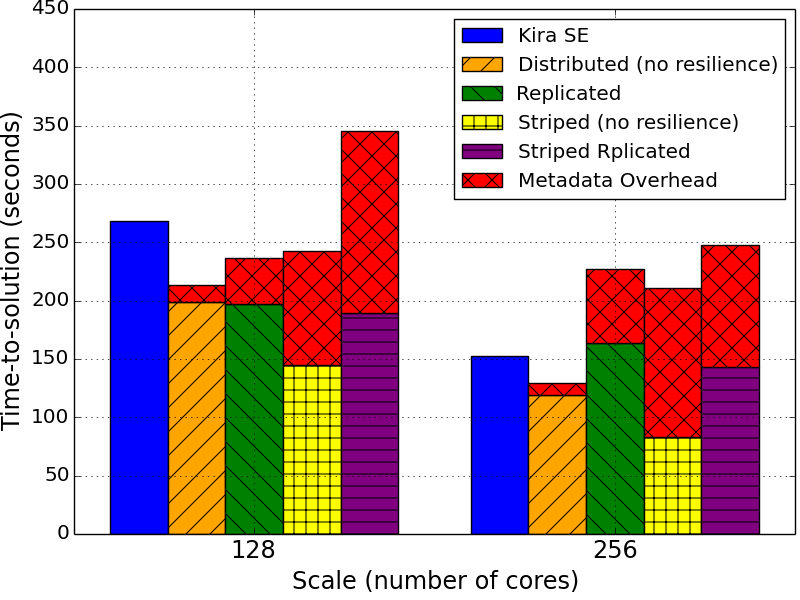
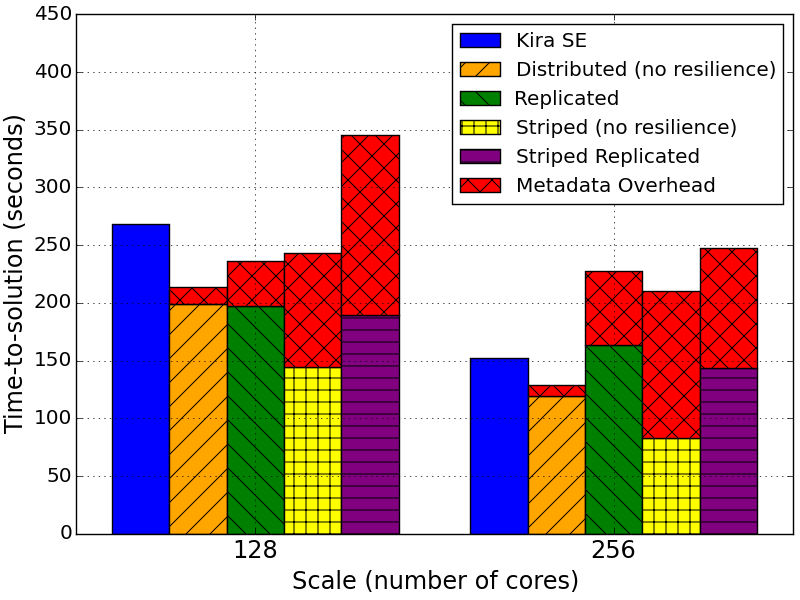
address most of Mike's hand-written comments except VI.c.1, VI.c.2 and a extra plot show metadata distribution of HDFS and GlusterFS

diff --git a/Kira.tex b/Kira.tex
@@ -447,16 +447,26 @@ the SparkContext and RDD APIs.
 
 \subsection{I/O}
 \label{sec:Design-I/O}
-Kira uses the jFITS~\cite{jfits} library to read and write data in the Flexible Image Transport System (FITS)~\cite{wells81} format,
-which is a standard data interchange format for astronomy. For our intended use-case, Kira must be
-able to process data stored in HDFS, S3, and shared file systems like GPFS, Lustre and GlusterFS.
-We use the \texttt{SparkContext.binaryFiles} method for parallel data access to all storage systems.
-This API loads all files within a directory as a sequence of tuples of the file object and a binary
-stream containing the contents of the file. We then use jFITS library to convert these streams in
-parallel into tuples that users can transform and compute upon. 
-%In future work we plan to evaluate
-%various other data formats (e.g. Avro~\cite{avro}, Parquet~\cite{parquet}, and HDF5~\cite{folk99})
-%with Kira.
+The Flexible Image Transport System (FITS)~\cite{wells81} format is a widely adopted file format for astronomy
+images. Each FITS file combines a ASCII text part for metadata and a binary part for the actual image.
+Many sky surveys release data products in the FITS format. This requires Kira has to be compatible with 
+the FITS format. 
+One the other hand, one notable difference between HDFS and the traditional POSIX compatible file system is 
+the exposure of file locality information. HDFS client exposes a set of APIs for users to customized the input file
+format while the underlying system guarantees the locality when loading the files. 
+Spark in turn calls to the HDFS client APIs to load files from HDFS with locality optimization. 
+
+The mixed text and binary contents of FITS format makes it challenging for Kira to be compatible with.
+One way for Kira to be compatible with the FITS format while preserving the file locality is to customize Spark's
+HDFS client by passing the FITS class definition. This approach requires changes to the Spark code base and 
+introduces additional overhead to manage an extra Spark branch that is compatible with the FITS format.
+
+To better isolate Kira code from Spark, we use an alternate solution that is based on 
+the \texttt{SparkContext.binaryFiles()} API, with which we do not have to change the Spark source code.
+This API loads all files within a directory as a sequence of tuples. Each tuple contains the file object and a byte
+stream containing the contents of the file. We then use jFITS~\cite{jfits} library to convert these byte streams 
+into FITS objects that users can transform and compute upon. 
+
 
 \subsection{Parallelism}
 
@@ -486,7 +496,7 @@ $t$ to start. The policy is tunable through three options:
 These parameters allow users to specify how much time a task will wait before being sent to another
 process, node, or rack. For Kira SE, we have found that data balancing can 
 impact task distribution, leading to node starvation and a reduction in overall performance.
-Loading the 65GB (11,150 files) to a 16-node HDFS deployment ideally should result in 699 files on each node.
+Loading a 65GB (11,150 files) dataset from SDSS Data Release 2 to a 16-node HDFS deployment ideally should result in 699 files on each node.
 In reality, the number of files on each node is varies between 617 and 715.
 Enforcing locality with longer {\em spark.locality.wait} time (3000 ms) leads to task distribution imbalance, which makes
 Kira SE 4.5\% slower than running with {\em spark.locality.wait} set to 0 ms.
@@ -494,7 +504,7 @@ In practice, we set all {\em spark.locality.wait} parameters to zero, so that ta
 This setting effectively avoids the starving situation and improves the overall time-to-solution.
 
 The root cause of the delay scheduling ineffectiveness is the small input file size of the Kira SE tasks. 
-Each input file is $\sim$6MB, while a typical Spark/Hadoop application accesses files with a trunk size of 64/128 MB.
+Each input file is $\sim$6MB, while a typical Spark/Hadoop application accesses files with a block size of 64/128 MB~\cite{shvachko10}.
 Delay scheduling works effectively when it is expensive to move the data through network. The small input
 file size means that this assumption is not true, leading to reduced cost for scheduling without locality.
 We notice that the small file size is why Kira SE is CPU bound, making Kira SE
@@ -589,10 +599,10 @@ is then used for further refinement in the next loop iteration.
 \label{sec:Performance}
 
 We evaluate Kira SE's performance against the C implementation with the SEP library
-(referred as the C version in the following text). Kira SE performs an identical amount of
+(referred as the C version in the following text). Because it uses SEP, Kira SE performs an identical amount of
 computation and I/O as the C version.
 
-To run the C version in parallel, we launching a number of processes in the background and then wait
+To run the C version in parallel, we launch a number of processes in the background and then wait
 for processes to finish before starting another batch. When running on multiple nodes,
 the input dataset is stored in a shared file system spread across all available nodes
 (GlusterFS on the cloud and Lustre on the supercomputer). To enable distributed processing,
@@ -601,7 +611,7 @@ independent partition of files.
 
 To understand Spark's overhead, we compare the C implementation against Kira SE on a single
 machine. Then we fix the problem size and scale Kira SE and the C implementation across a
-various number of machines on EC2 to understand the relative scalability of each approach.
+varying number of machines on EC2 to understand the relative scalability of each approach.
 The 1TB experiments demonstrate the difference in performance between Kira SE and the C version
 for large dataset processing. Finally, we show some interesting results when running the C
 version on the Edison supercomputer that is deployed at National Energy Research Scientific Computing Center (NERSC).
@@ -616,8 +626,8 @@ Software configurations are described in the following experiments.
 \label{sec:Performance-scaleup}
 
 The purpose of the scale-up experiments is to understand Spark's overhead by running
-Kira SE on a single node. Slowdown will be caused mainly by Java Virtual Machine (JVM) overhead, and result
-serialization at ``narrow'' shuffle dependencies. We also wanted to identify the factors
+Kira SE on a single node. Slowdown is caused mainly by Java Virtual Machine (JVM) overhead. 
+We also wanted to identify the factors
 that bound Kira SE's performance. For both Kira SE and the C implementation, we store data
 locally in an ext4 file system.
 
@@ -646,7 +656,7 @@ We also profile the C implementation with both warm and cold file system caches.
 cold cache, the job completed in 371 seconds while the job completed in 83 seconds when
 running with a warm cache. This indicates that 78\% of job execution time is consumed by
 I/O (reading and writing data between local disk and memory). Since the C implementation of
-SExtractor is disk bound, we believe that it is a data intensive application. 
+SExtractor is disk bound, we believe that it is representative of a data intensive application. 
 
 \subsection{Scale-Out Performance}
 \label{sec:Performance-scaleout}
@@ -661,8 +671,8 @@ We use a 65GB dataset from the SDSS DR2 survey that comprises 11,150 image files
 Kira SE was configured to use HDFS as a storage system, while the C version used GlusterFS. 
 Both HDFS and GlusterFS are configured with a replication factor of two.
 
-Figure~\ref{fig:scaleout} demonstrates the performance of Kira SE and the C version across
-multiple compute nodes. Kira SE achieves only 37\% of the throughput of the C version
+Figure~\ref{fig:scaleout} shows the performance of Kira SE and the C version across
+multiple compute nodes in log scale. Kira SE is 2.7x slower as the C version
 on eight cores. However, the gap between the two implementations decreases as we scale up. 
 On 256 cores and 512 cores, Kira SE is respectively 5.6\% and 22.4\% faster than the C version.
 Across all scales, Kira SE achieves near linear speedup.
@@ -676,9 +686,10 @@ Across all scales, Kira SE achieves near linear speedup.
   	\end{center}
 \end{figure}
 
-The fundamental driver of Kira SE's linear scalability is it's consistent locality
-hit ratio. Spark and HDFS optimize for data locality during scheduling and achieve a
-locality hit ration above 98\%, as shown in Figure~\ref{fig:locality}. In contrast, the
+The fundamental driver of Kira SE's linear scalability is it's consistent local disk
+hit ratio, which is the ratio between the number of tasks that access the input file 
+on local disk and total number of tasks. Spark and HDFS optimize for data locality during scheduling and achieve a
+hit ration above 98\%, as shown in Figure~\ref{fig:locality}. In contrast, the
 C implementation's locality hit ratio decreases linearly with the log of the cluster
 size increases.
 
@@ -802,9 +813,9 @@ Section~\ref{sec:Background-EngReq}. This high throughput enables real-time imag
 
 Many astronomers have access to supercomputers and believe that
 supercomputers outperform commodity clusters for data-intensive applications.
-To examine this believe, we compare Kira SE on the Amazon cloud versus the performance of
+To examine this belief, we compare Kira SE on the Amazon cloud versus the performance of
 the C version running on the NERSC Edison supercomputer, a Cray XC 30 System. We use
-mounted Lustre file system which provides a peak throughput of 48GB/s. Each compute
+the Lustre file system which provides a peak throughput of 48GB/s. Each compute
 node of Edison is equipped with a 24-core Ivy Bridge processor, with a 2.4GHz clock rate.
 This is comparable to the CPU speed of the Amazon EC2 m2.4xlarge instance (eight vCPUs of
 Intel Xeon E5-2665, each running at 2.4GHz). The experiments on Edison run on 21
@@ -830,8 +841,8 @@ However, when the machine is busy, the C version runs $1.75\times$ slower than K
 Given the performance loss introduced by virtual machines on EC2~\cite{li13},
 the actual Kira SE performance on bare-metal computers should be close to the idle performance
 of the supercomputer. When Edison was saturated, we were not able to launch the CCM mode.
-We believe that cause this problem is caused by sharing the single Aries network between both inter-process
-communication and I/O. The network resource is not sufficiently isolated to preserve every
+We believe that this problem is caused by sharing the single Aries network between both inter-process
+communication and I/O. The network resource is not fairly shared to preserve every
 user's performance. A similar situation was carefully studied on the Jaguar supercomputer
 (a Cray XK6 machine, \cite{xie12}).
 
@@ -849,11 +860,11 @@ scheme that can be applied to a broad range of applications, but at the cost of 
 flexibility.
 
 Researchers have used the Hadoop MapReduce~\cite{HADOOP} system to parallelize
-tasks using a map-reduce data model. A variety of applications have been parallelized
+tasks using a map-reduce data model. A variety of scientific applications have been parallelized
 using Hadoop such as CloudBLAST~\cite{matsunaga08}. 
- Although Hadoop exposes many convenient
-abstractions, it is difficult to target the restrictive map-reduce API~\cite{dewitt08}
-and Hadoop's disk based model makes iterative/pipelined tasks expensive.
+Although Hadoop exposes many convenient abstractions, it is difficult to express the application 
+with the restrictive map-reduce API~\cite{dewitt08} and Hadoop's disk based model makes 
+iterative/pipelined tasks expensive.
 
 MPI has also been used to parallelize a diverse range of workloads. There
 are MPI-based parallel implementations of astronomy image
@@ -923,7 +934,7 @@ strong candidate for many-task scientific applications.
 %ACKNOWLEDGMENTS are optional
 \section{Acknowledgments}
 
-This research is supported in part by NSF CISE Expeditions Award CCF-1139158, LBNL Award 7076018, and DARPA XData Award FA8750-12-2-0331, and gifts from Amazon Web Services, Google, SAP,  The Thomas and Stacey Siebel Foundation, Adatao, Adobe, Apple, Inc., Blue Goji, Bosch, C3Energy, Cisco, Cray, Cloudera, EMC, Ericsson, Facebook, Guavus, Huawei, Intel, Microsoft, NetApp, Pivotal, Samsung, Splunk, Virdata, VMware, and Yahoo!. Author FAN is supported by a National Science Foundation Graduate Research Fellowship.
+This research is supported in part by NSF CISE Expeditions Award CCF-1139158, DOE Award SN10040 DE-SC0012463, and DARPA XData Award FA8750-12-2-0331, and gifts from Amazon Web Services, Google, IBM, SAP, The Thomas and Stacey Siebel Foundation, Adatao, Adobe, Apple, Inc., Blue Goji, Bosch, C3Energy, Cisco, Cray, Cloudera, EMC2, Ericsson, Facebook, Guavus, HP, Huawei, Informatica, Intel, Microsoft, NetApp, Pivotal, Samsung, Schlumberger, Splunk, Virdata and VMware. Author Frank Austin Nothaft is supported by a National Science Foundation Graduate Research Fellowship.
 
 This research is also supported in part by the Gordon and Betty Moore
 Foundation and the Alfred P. Sloan Foundation together through the

diff --git a/pictures/allgluster.py b/pictures/allgluster.py
@@ -39,7 +39,7 @@ ax.set_ylabel('Time-to-solution (seconds)', size='x-large')
 ax.set_xticks(ind+width*2.5)
 ax.set_xticklabels( ('128', '256'), size='x-large') 
 plt.yticks(size='large')
-ax.legend( (rects1[0], rects2[0], rects4[0], rects6[0], rects8[0], rects3[0]), ('Kira SE', 'Distributed (no resilience)', 'Replicated', 'Striped (no resilience)', 'Striped Rplicated', 'Metadata Overhead') )
+ax.legend( (rects1[0], rects2[0], rects4[0], rects6[0], rects8[0], rects3[0]), ('Kira SE', 'Distributed (no resilience)', 'Replicated', 'Striped (no resilience)', 'Striped Replicated', 'Metadata Overhead') )
 
 plt.show()
 
